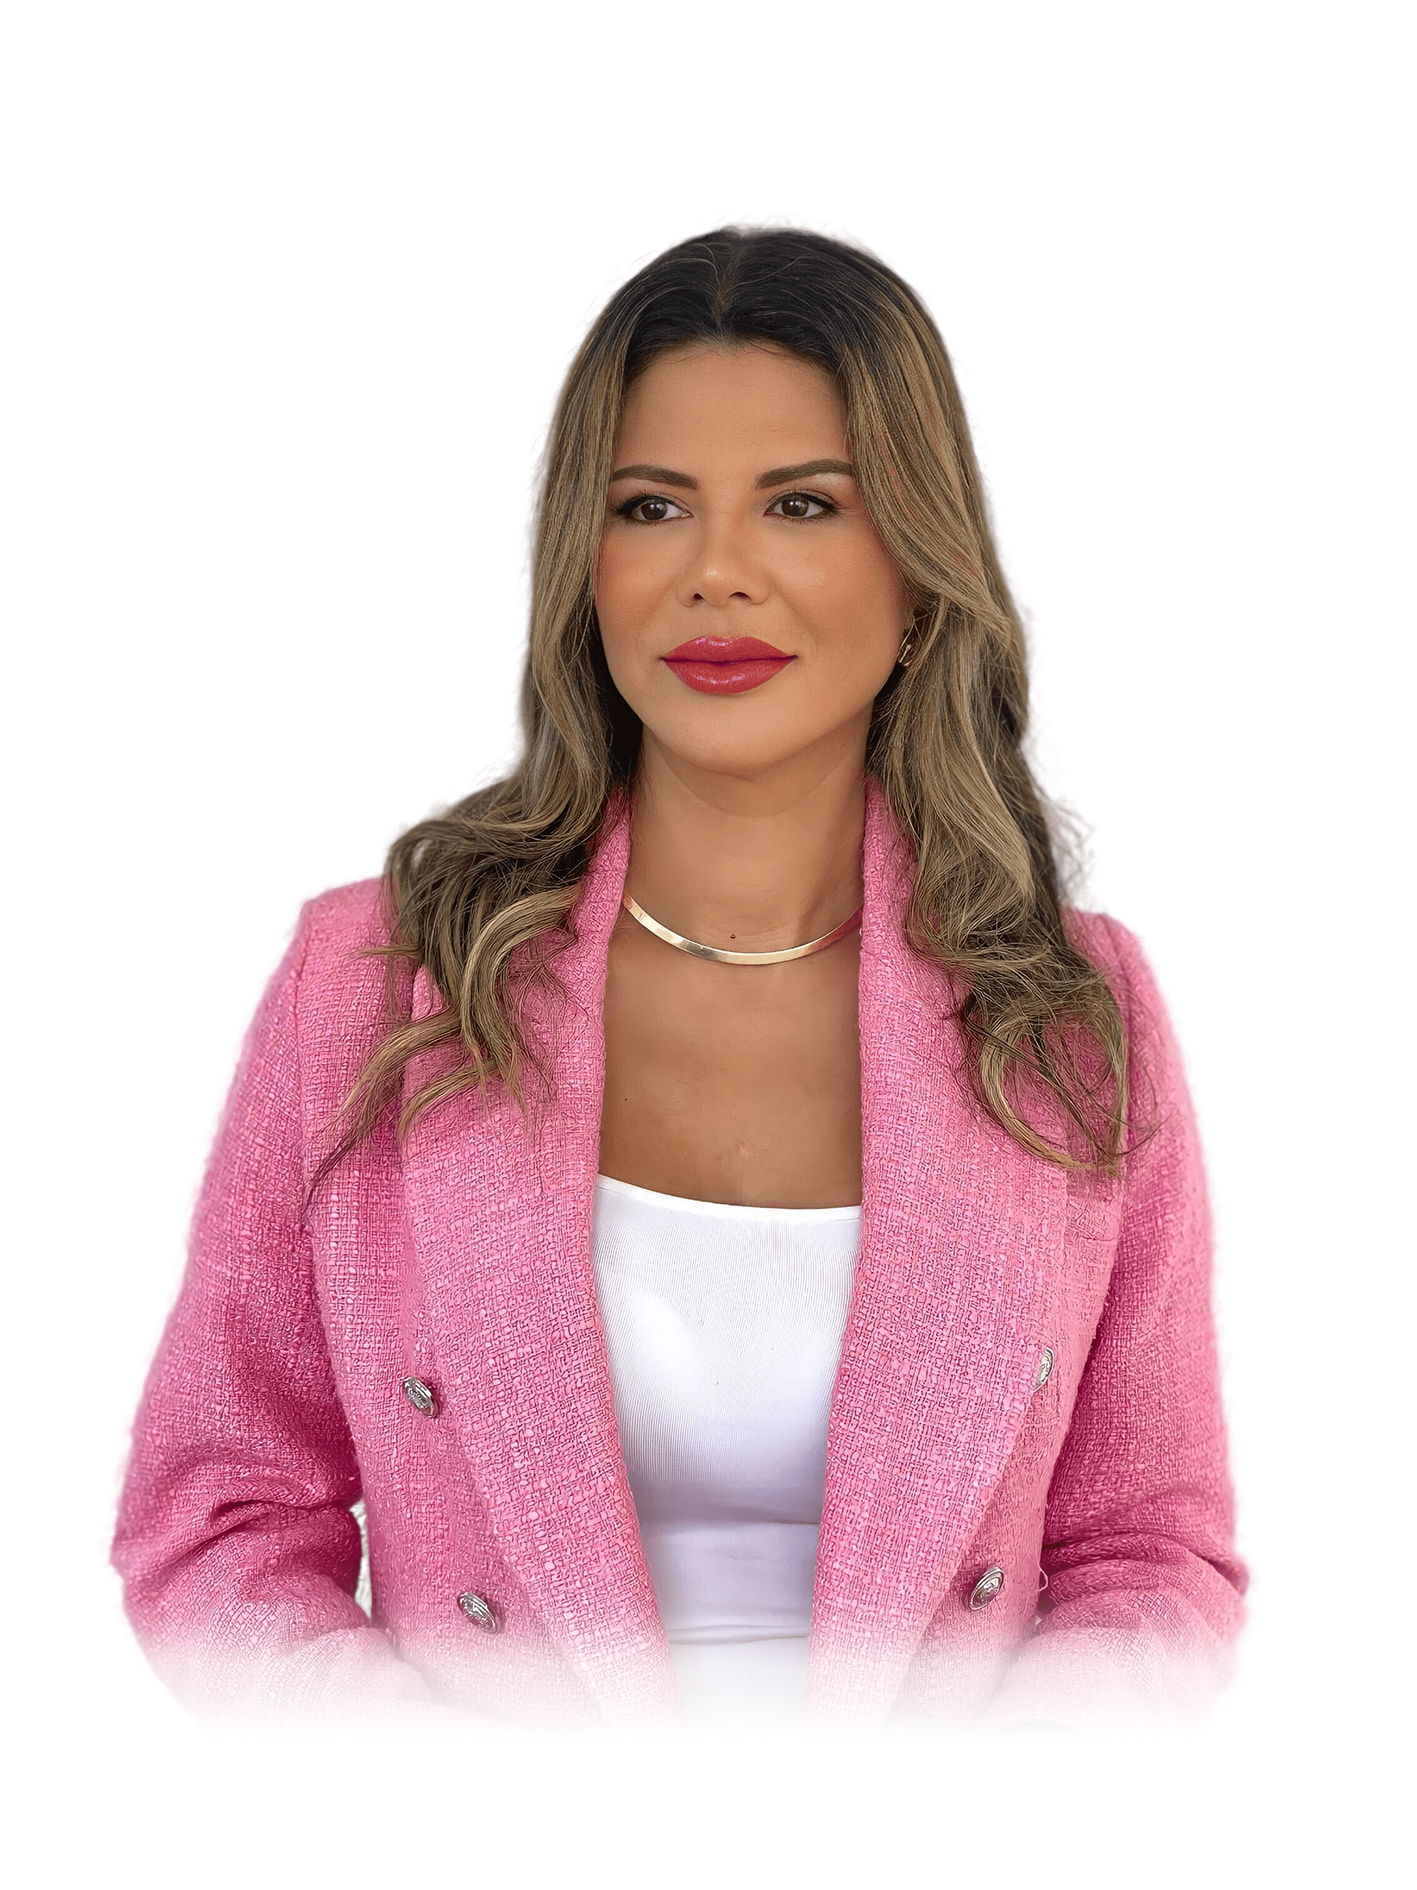
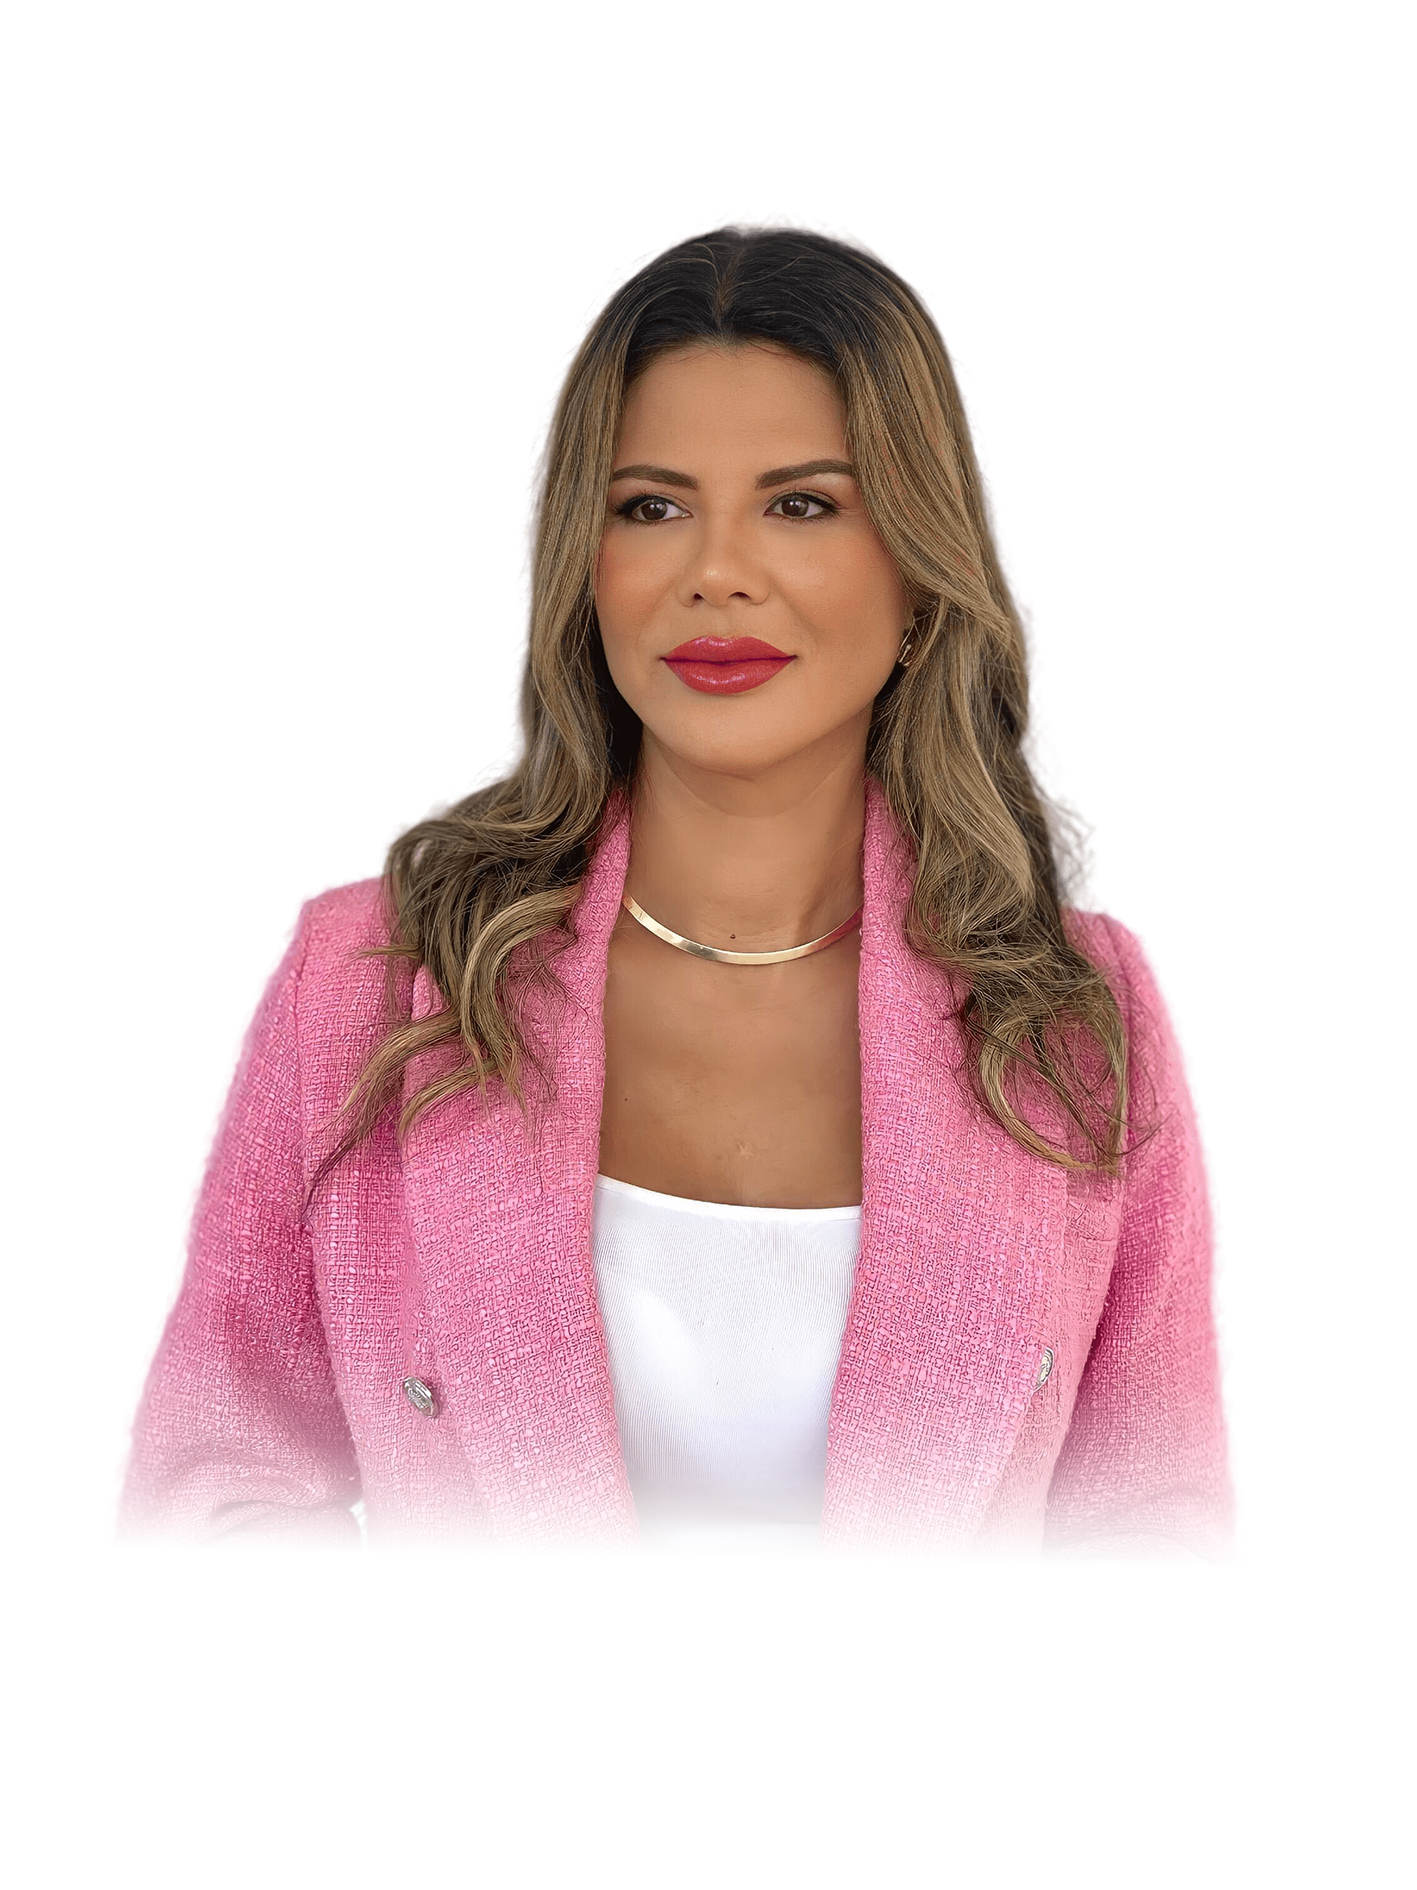
fix: testimonials section

Changed region(s): [[0.0621, 0.718, 0.9005, 0.9053]]

diff --git a/src/components/TestimonialsSection/style.ts b/src/components/TestimonialsSection/style.ts
@@ -8,6 +8,8 @@ export const StyledTestimonial = styled.div`
 	flex-direction: column;
 	justify-content: center;
 	padding-top: 75px;
+	padding-bottom: 60px;
+
 	background-image: url(${fundo});
 	background-attachment: fixed;
 	background-position: center;

diff --git a/src/components/HomeSection/index.tsx b/src/components/HomeSection/index.tsx
@@ -1,6 +1,6 @@
 import { StyledHome } from "./style";
 
-const profilepic = require("../../assets/images/teste-3.png");
+const profilepic = require("../../assets/images/profilepic.png");
 
 const HomeSection = () => {
 	return (
